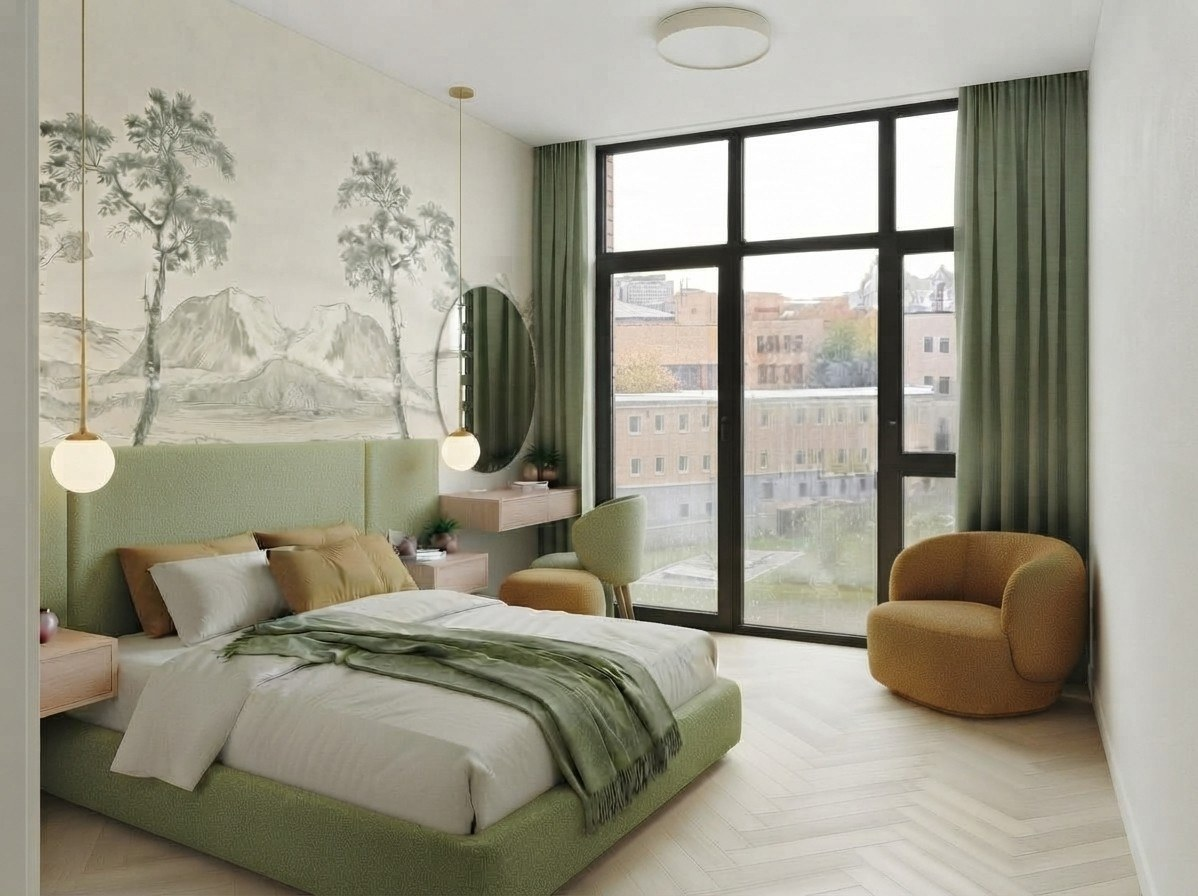
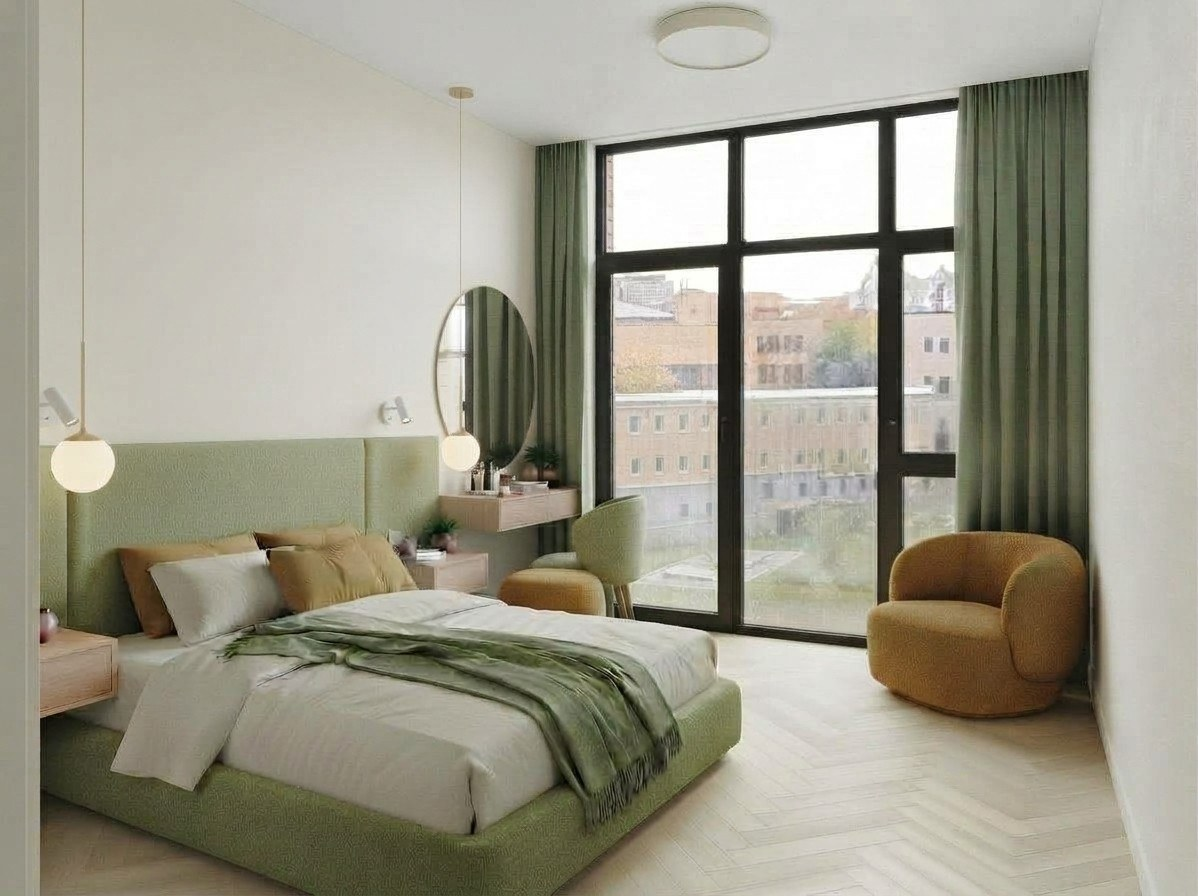
Bedroom without wallpaper

Changed region(s): [[0.0309, 0.0938, 0.4633, 0.5625], [0.4324, 0.2188, 0.4633, 0.2812], [0.3706, 0.0938, 0.4015, 0.125]]

diff --git a/interior/itog/index.html b/interior/itog/index.html
@@ -28,10 +28,10 @@ textarea{min-height:70px;resize:vertical;margin-top:10px}
 <h1>Квартира целиком</h1>
 <p class="lead">По вашим ответам собрали квартиру в одном стиле: белые стены, светлый дуб, шалфей и фисташка, охра и пыльная роза, без тёмных цветов, в санузлах — не больше трёх цветов. В каждой комнате выберите один вариант и напишите, что поправить — даже мелочи.</p>
 <p><input id="name" placeholder="Ваше имя" autocomplete="given-name"></p>
-<p class="status" id="status"></p><p class="status">Версия 29 · в санузлах терраццо — вариант A</p>
+<p class="status" id="status"></p><p class="status">Версия 30 · в санузлах терраццо — вариант A</p>
 <div id="rooms"></div></div>
 <div class="lb" id="lb" hidden><img id="lbImg" alt=""></div>
-<script id="data" type="application/json">[{"key": "gostinaya", "title": "Кухня-гостиная", "opts": [{"id": "v12-gostinaya-01", "src": "../img/v12-gostinaya-01.jpg", "label": "Кухня в дубе, цвет в диване и картине", "w": 1207, "h": 864}, {"id": "v7-gostinaya-05", "src": "../img/v7-gostinaya-05.jpg", "w": 1195, "h": 896, "label": "A · Наша комната по фото: вид из прихожей на окно"}, {"id": "v7-gostinaya-02", "src": "../img/v7-gostinaya-02.jpg", "w": 1195, "h": 896, "label": "A · тот же вариант: вид на диван и окно"}, {"id": "v7-gostinaya-03", "src": "../img/v7-gostinaya-03.jpg", "w": 896, "h": 1195, "label": "A · тот же вариант: вид от окна на кухню и нишу"}, {"id": "v7-gostinaya-04", "src": "../img/v7-gostinaya-04.jpg", "w": 896, "h": 1195, "label": "A · тот же вариант: вид вдоль стены с ТВ"}, {"id": "v3-gostinaya-03", "src": "../img/v3-gostinaya-03.jpg", "label": "B · фисташковая кухня, розовый диван, стулья охра", "w": 1115, "h": 960}, {"id": "v3-gostinaya-04", "src": "../img/v3-gostinaya-04.jpg", "label": "C · дубовая кухня, шалфейный диван, розовые стулья", "w": 1115, "h": 960}, {"id": "v3-gostinaya-02", "src": "../img/v3-gostinaya-02.jpg", "label": "D · фисташковая кухня, розовый диван, стулья охра + роза", "w": 1115, "h": 960}]}, {"key": "spalnya", "title": "Спальня", "opts": [{"id": "v11-spalnya-01", "src": "../img/v11-spalnya-01.jpg", "label": "По реальному фото: фисташковая кровать, обои-гравюра, столик", "w": 1198, "h": 896}, {"id": "v11-spalnya-02", "src": "../img/v11-spalnya-02.jpg", "label": "По реальному фото: вид на дверь, зеркало в пол", "w": 1198, "h": 896}, {"id": "v2-spalnya-03", "src": "../img/v2-spalnya-03.jpg", "label": "A · фисташковая кровать, стулья охра", "w": 1115, "h": 960}, {"id": "v2-spalnya-02", "src": "../img/v2-spalnya-02.jpg", "label": "B · розовая кровать", "w": 1376, "h": 768}, {"id": "v2-spalnya-01", "src": "../img/v2-spalnya-01.jpg", "label": "C · кровать из дуба, шкаф шалфей", "w": 1376, "h": 768}]}, {"key": "komnata", "title": "Комната", "opts": [{"id": "v8-komnata-01", "src": "../img/v8-komnata-01.jpg", "w": 1153, "h": 912, "label": "Наша детская по фото: вид от двери на окно"}, {"id": "v10-komnata-02", "src": "../img/v10-komnata-02.jpg", "label": "Вид от окна: кровать из букле, постер с надписями", "w": 1187, "h": 880}]}, {"key": "prihozhaya", "title": "Прихожая", "opts": [{"id": "v12-prihozhaya-01", "src": "../img/v12-prihozhaya-01.jpg", "label": "Вид с порога: зеркальный шкаф, консоль у двери, постер", "w": 896, "h": 1195}, {"id": "v12-prihozhaya-02", "src": "../img/v12-prihozhaya-02.jpg", "label": "Вид с порога: постер над консолью, стена прямо белая", "w": 896, "h": 1195}, {"id": "v8-prihozhaya-01", "src": "../img/v8-prihozhaya-01.jpg", "w": 848, "h": 1229, "label": "A · Наша прихожая по фото: шкаф шалфей, зеркало до потолка"}, {"id": "v6-prihozhaya-01", "src": "../img/v6-prihozhaya-01.jpg", "w": 797, "h": 1152, "label": "B · шалфей, консоль из дуба, зеркало, светлый пол"}, {"id": "v6-prihozhaya-02", "src": "../img/v6-prihozhaya-02.jpg", "w": 863, "h": 1248, "label": "C · шалфей, полуовальное зеркало с подсветкой"}, {"id": "v6-prihozhaya-03", "src": "../img/v6-prihozhaya-03.jpg", "w": 863, "h": 1248, "label": "D · шкаф шалфей, белые стены, полоса шалфея за зеркалом"}, {"id": "v6-prihozhaya-04", "src": "../img/v6-prihozhaya-04.jpg", "w": 863, "h": 1248, "label": "E · шкаф шалфей, белые стены, полуовальное зеркало"}, {"id": "v2-prihozhaya-01", "src": "../img/v2-prihozhaya-01.jpg", "label": "F · фисташковый шкаф, мрамор", "w": 928, "h": 1152}, {"id": "v2-prihozhaya-04", "src": "../img/v2-prihozhaya-04.jpg", "label": "G · дубовый шкаф, ёлочка", "w": 928, "h": 1152}]}, {"key": "sanuzel", "title": "Большой санузел", "opts": [{"id": "v9-sanuzel-01", "src": "../img/v9-sanuzel-01.jpg", "label": "A · по реальному фото: терраццо и дуб", "w": 864, "h": 1207}, {"id": "v4-sanuzel-03", "src": "../img/v4-sanuzel-03.jpg", "label": "B · терраццо и дуб", "w": 1024, "h": 1024}, {"id": "v2-sanuzel-01", "src": "../img/v2-sanuzel-01.jpg", "label": "C · белый, дуб и розовая плитка", "w": 1024, "h": 1024}, {"id": "v2-sanuzel-02", "src": "../img/v2-sanuzel-02.jpg", "label": "D · белый, дуб и фисташковая плитка", "w": 1024, "h": 1024}]}, {"key": "malyy", "title": "Малый санузел", "opts": [{"id": "v9-malyy-01", "src": "../img/v9-malyy-01.jpg", "label": "A · по реальному фото: дуб, терраццо, чёрная фурнитура", "w": 896, "h": 1195}, {"id": "v4-malyy-01", "src": "../img/v4-malyy-01.jpg", "label": "B · терраццо и дуб", "w": 928, "h": 1152}, {"id": "v2-malyy-03", "src": "../img/v2-malyy-03.jpg", "label": "C · белый, дуб и зелёная плитка", "w": 922, "h": 1152}]}]</script>
+<script id="data" type="application/json">[{"key": "gostinaya", "title": "Кухня-гостиная", "opts": [{"id": "v12-gostinaya-01", "src": "../img/v12-gostinaya-01.jpg", "label": "Кухня в дубе, цвет в диване и картине", "w": 1207, "h": 864}, {"id": "v7-gostinaya-05", "src": "../img/v7-gostinaya-05.jpg", "w": 1195, "h": 896, "label": "A · Наша комната по фото: вид из прихожей на окно"}, {"id": "v7-gostinaya-02", "src": "../img/v7-gostinaya-02.jpg", "w": 1195, "h": 896, "label": "A · тот же вариант: вид на диван и окно"}, {"id": "v7-gostinaya-03", "src": "../img/v7-gostinaya-03.jpg", "w": 896, "h": 1195, "label": "A · тот же вариант: вид от окна на кухню и нишу"}, {"id": "v7-gostinaya-04", "src": "../img/v7-gostinaya-04.jpg", "w": 896, "h": 1195, "label": "A · тот же вариант: вид вдоль стены с ТВ"}, {"id": "v3-gostinaya-03", "src": "../img/v3-gostinaya-03.jpg", "label": "B · фисташковая кухня, розовый диван, стулья охра", "w": 1115, "h": 960}, {"id": "v3-gostinaya-04", "src": "../img/v3-gostinaya-04.jpg", "label": "C · дубовая кухня, шалфейный диван, розовые стулья", "w": 1115, "h": 960}, {"id": "v3-gostinaya-02", "src": "../img/v3-gostinaya-02.jpg", "label": "D · фисташковая кухня, розовый диван, стулья охра + роза", "w": 1115, "h": 960}]}, {"key": "spalnya", "title": "Спальня", "opts": [{"id": "v11-spalnya-01", "src": "../img/v11-spalnya-01.jpg", "label": "По реальному фото: фисташковая кровать, белая стена, столик", "w": 1198, "h": 896}, {"id": "v11-spalnya-02", "src": "../img/v11-spalnya-02.jpg", "label": "По реальному фото: вид на дверь, зеркало в пол", "w": 1198, "h": 896}, {"id": "v2-spalnya-03", "src": "../img/v2-spalnya-03.jpg", "label": "A · фисташковая кровать, стулья охра", "w": 1115, "h": 960}, {"id": "v2-spalnya-02", "src": "../img/v2-spalnya-02.jpg", "label": "B · розовая кровать", "w": 1376, "h": 768}, {"id": "v2-spalnya-01", "src": "../img/v2-spalnya-01.jpg", "label": "C · кровать из дуба, шкаф шалфей", "w": 1376, "h": 768}]}, {"key": "komnata", "title": "Комната", "opts": [{"id": "v8-komnata-01", "src": "../img/v8-komnata-01.jpg", "w": 1153, "h": 912, "label": "Наша детская по фото: вид от двери на окно"}, {"id": "v10-komnata-02", "src": "../img/v10-komnata-02.jpg", "label": "Вид от окна: кровать из букле, постер с надписями", "w": 1187, "h": 880}]}, {"key": "prihozhaya", "title": "Прихожая", "opts": [{"id": "v12-prihozhaya-01", "src": "../img/v12-prihozhaya-01.jpg", "label": "Вид с порога: зеркальный шкаф, консоль у двери, постер", "w": 896, "h": 1195}, {"id": "v12-prihozhaya-02", "src": "../img/v12-prihozhaya-02.jpg", "label": "Вид с порога: постер над консолью, стена прямо белая", "w": 896, "h": 1195}, {"id": "v8-prihozhaya-01", "src": "../img/v8-prihozhaya-01.jpg", "w": 848, "h": 1229, "label": "A · Наша прихожая по фото: шкаф шалфей, зеркало до потолка"}, {"id": "v6-prihozhaya-01", "src": "../img/v6-prihozhaya-01.jpg", "w": 797, "h": 1152, "label": "B · шалфей, консоль из дуба, зеркало, светлый пол"}, {"id": "v6-prihozhaya-02", "src": "../img/v6-prihozhaya-02.jpg", "w": 863, "h": 1248, "label": "C · шалфей, полуовальное зеркало с подсветкой"}, {"id": "v6-prihozhaya-03", "src": "../img/v6-prihozhaya-03.jpg", "w": 863, "h": 1248, "label": "D · шкаф шалфей, белые стены, полоса шалфея за зеркалом"}, {"id": "v6-prihozhaya-04", "src": "../img/v6-prihozhaya-04.jpg", "w": 863, "h": 1248, "label": "E · шкаф шалфей, белые стены, полуовальное зеркало"}, {"id": "v2-prihozhaya-01", "src": "../img/v2-prihozhaya-01.jpg", "label": "F · фисташковый шкаф, мрамор", "w": 928, "h": 1152}, {"id": "v2-prihozhaya-04", "src": "../img/v2-prihozhaya-04.jpg", "label": "G · дубовый шкаф, ёлочка", "w": 928, "h": 1152}]}, {"key": "sanuzel", "title": "Большой санузел", "opts": [{"id": "v9-sanuzel-01", "src": "../img/v9-sanuzel-01.jpg", "label": "A · по реальному фото: терраццо и дуб", "w": 864, "h": 1207}, {"id": "v4-sanuzel-03", "src": "../img/v4-sanuzel-03.jpg", "label": "B · терраццо и дуб", "w": 1024, "h": 1024}, {"id": "v2-sanuzel-01", "src": "../img/v2-sanuzel-01.jpg", "label": "C · белый, дуб и розовая плитка", "w": 1024, "h": 1024}, {"id": "v2-sanuzel-02", "src": "../img/v2-sanuzel-02.jpg", "label": "D · белый, дуб и фисташковая плитка", "w": 1024, "h": 1024}]}, {"key": "malyy", "title": "Малый санузел", "opts": [{"id": "v9-malyy-01", "src": "../img/v9-malyy-01.jpg", "label": "A · по реальному фото: дуб, терраццо, чёрная фурнитура", "w": 896, "h": 1195}, {"id": "v4-malyy-01", "src": "../img/v4-malyy-01.jpg", "label": "B · терраццо и дуб", "w": 928, "h": 1152}, {"id": "v2-malyy-03", "src": "../img/v2-malyy-03.jpg", "label": "C · белый, дуб и зелёная плитка", "w": 922, "h": 1152}]}]</script>
 <script>
 const FORM_ACTION='https://docs.google.com/forms/d/e/1FAIpQLSf0fpu6bYX8AfbI0DWtXiViWGJpiZCAC7_vtrAKPLAi6q84wA/formResponse', FORM_ENTRY='entry.2073883489';
 const ROOMS=JSON.parse(document.getElementById('data').textContent), $=id=>document.getElementById(id);
